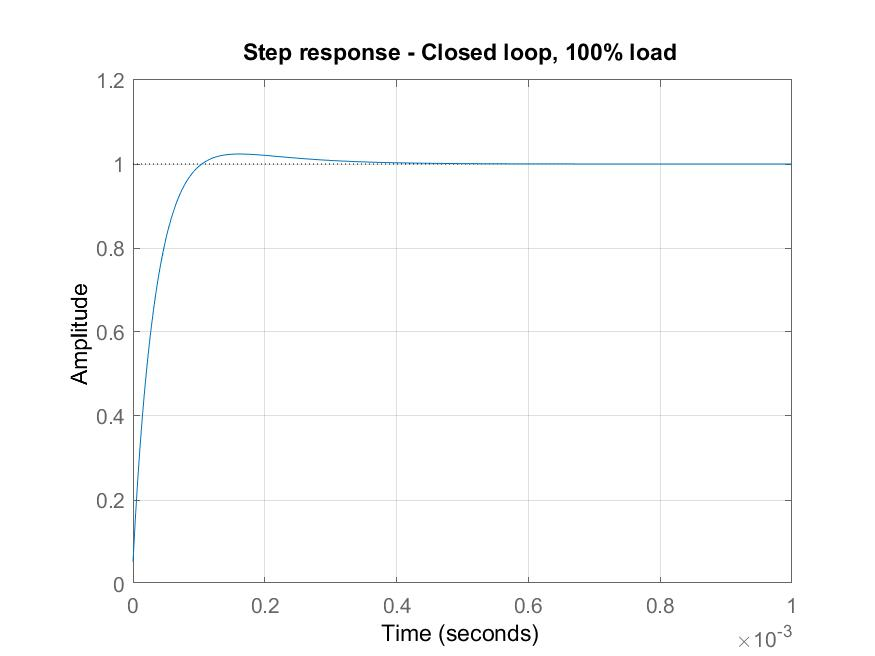
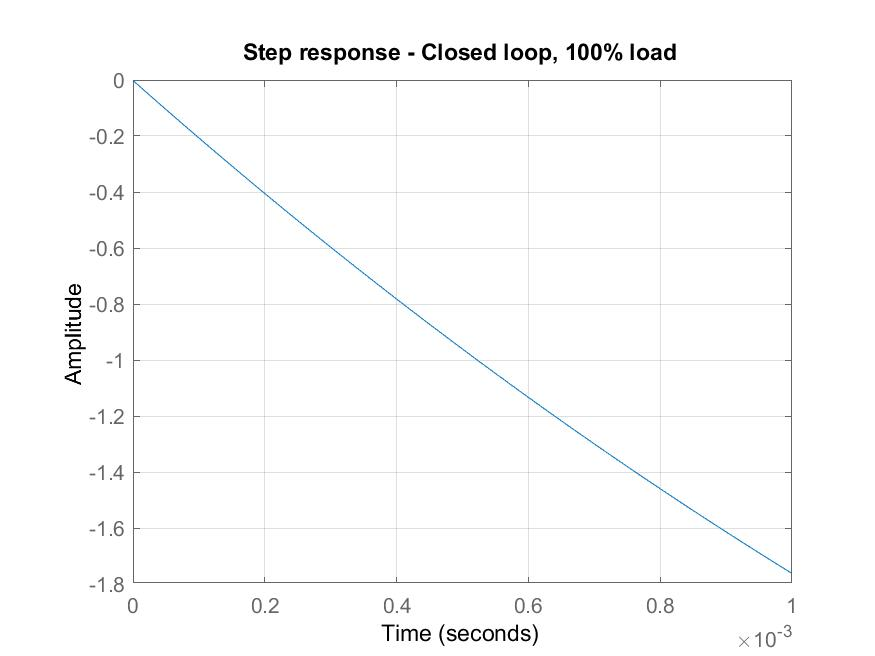
new fb model

diff --git a/8_2_Flyback_MATLAB/flyback_ss_simplify.m b/8_2_Flyback_MATLAB/flyback_ss_simplify.m
@@ -1,0 +1,209 @@
+clc; clf; clear all; close all; 
+
+syms L_eq1;
+syms r_eq1;
+syms r_m1;
+syms L_m1;
+syms L_1;
+syms L_eq2;
+syms r_eq2;
+syms C;
+syms r_c;
+syms R;
+syms k_N;
+
+syms big_d;
+syms small_d;
+
+syms V_in;
+
+StepSize = 0.5;
+
+%%
+
+ripple_ratio = 1/2; % delta i_L/I_L
+V_in = 400;
+V_out = 3.3;
+Delta = 0.5;
+P_in = 708; %637W / 0.9
+f_sw = 100e3;
+I_out = 34;
+ripple_vout = 50e-3;
+
+% Choose R to ensure it draws power as the entire device
+% R = V^2/P
+R_load_list = [97.1e-3 129.4e-3 194.1e-3 388.2e-3];
+
+% Select i for Load percentage to test
+load_percentage = ["100% load" "75% load" "50% load" "25% load"];
+i = 1;
+
+L_eq1 = 0;
+r_eq1 = 1e-3;
+r_m1  = 0;
+L_1   = (V_in * Delta)^2/(ripple_ratio*P_in*f_sw);
+L_m1  = L_1;
+L_eq2 = 0;
+r_eq2 = 1e-3;
+C     = (Delta * I_out)/(f_sw*ripple_vout);
+r_c   = 25e-3; % Testing
+R     = R_load_list(1,i);
+k_N   = V_out/V_in;
+big_d = Delta;
+
+
+%%  State Space
+
+% L_2 = k_N^2 * L_1;
+
+%Use Lm = L1 = L2 for now
+L_1 = L_m1;
+L_2 = L_1;
+
+% On state
+A_on = [-r_eq1/L_1, 0 %fixed
+        0, -1/(C*(R+r_c))]
+B_on = [1/L_1; 0]
+C_on = [0, R/(R+r_c)]
+
+% Off state: Non transformed (iL2, VL)
+A_off = [-1/L_2*(R*r_c)/(R+r_c), - 1/L_2*R/(R+r_c);
+        R/(C*(R+r_c)), -1/(C*(R+r_c))]
+B_off = [0;0]
+C_off = [R*r_c/(R+r_c), R/(R+r_c)]
+
+% Off state: Transformed (iL1, VL)
+Transform = [k_N 0; 0 1];
+A_off_T = Transform * A_off * inv(Transform)
+B_off_T = Transform * B_off
+C_off_T = C_off * inv(Transform)
+
+
+%% State Space Averaging
+
+% Operating point
+A = big_d*A_on + (1-big_d)*A_off_T;
+B = big_d*B_on + (1-big_d)*B_off_T;
+C = big_d*C_on + (1-big_d)*C_off_T;
+
+U = V_in;
+X = -inv(A)*B*U;
+Y = C*X;
+
+%Small-signal model
+E = (A_on-A_off_T)*X + (B_on-B_off_T)*U;
+F = (C_on-C_off_T)*X;
+
+fb_ss = ss(A, E, C, F);
+
+%% Transfer Function
+    [fb_tf_upper, fb_tf_lower] = ss2tf(A,E,C,F);
+    boost_tf = tf(fb_tf_upper, fb_tf_lower)
+
+    %% Unit Step Delta
+
+    % Find unit step-response
+    T = 0:0.001:StepSize;
+    [y,T,x] = step(fb_ss,T);
+
+    % Scale step-response and add to operating point
+    iL = 0.05*x(:,1)+X(1)*ones(length(T),1);
+    y = 0.05*y+Y*ones(length(T),1);
+
+    % Add time prior to step
+    T = [0; T+0.15];
+    iL = [X(1); iL];
+    y = [Y; y];
+
+
+    %% Open Loop Results
+
+    % Delta unit-step
+    figure(1);
+    subplot(3,1,1)
+    plot([0, 0.15, 0.1501, 0.2], [Delta, Delta, Delta+StepSize, Delta+StepSize])
+    ylim([Delta-0.05 Delta+0.05+StepSize]);
+    xlabel("Time [s]")
+    ylabel("Duty Cycle")
+    title("Delta Input")
+    xlim([0 0.2]);
+    grid on;
+
+    subplot(3,1,2)
+    plot(T,iL)
+    xlabel("Time [s]")
+    ylabel("Current [A]")
+    title("Current Output")
+    xlim([0 0.2]);
+    grid on;
+
+    subplot(3,1,3)
+    plot(T,y)
+    xlabel("Time [s]")
+    ylabel("Voltage [V]")
+    title("Voltage Output")
+    grid on;
+    xlim([0 0.2]);
+
+    %saveas(gcf,strcat('basic_fb_',load_percentage(i),'_ol_time.jpeg'))
+
+    %%
+
+    % Pre-step Bode Plot
+    figure(4);
+    bode(fb_ss);
+    title(strcat("Bode plot - Open loop, no controller, ", load_percentage(i)));
+    grid on;
+    %saveas(gcf,strcat('basic_fb_',load_percentage(i),'_ol_bode.jpeg'))
+
+    figure(5);
+    rlocus(fb_ss);
+    title(strcat("Root Locus - Closed loop, no controller, ", load_percentage(i)));
+    grid on;
+    %saveas(gcf,strcat('basic_fb_',load_percentage(i),'_ol_rlocus.jpeg'))
+
+    figure(6);
+    step(fb_ss, 1e-3)
+    title(strcat("Open loop step response - no controller, ", load_percentage(i)))
+    grid on;
+    %saveas(gcf,strcat('basic_fb_',load_percentage(i),'_ol_step.jpeg'))
+
+
+    %% PI Controller
+
+    % kP = -741; kI = -7.179e6; % Should be in the 10's micro range?
+    kP = 0.004; kI = 10;not
+    pi_gain = 1;
+
+    pi_controller = pid(kP, kI, 0);
+
+
+    %% CHOOSE CONTROLLER TYPE HERE
+
+    type = 'PI'; % Available options: LL, PI, Int
+    gain = pi_gain;
+    controller = pi_controller;
+
+    fb_OL = series(fb_ss, controller);
+    fb_CL = feedback(fb_OL*gain, 1);
+
+    %% Results: With Controller
+
+    figure(7);
+    rlocus(fb_OL);
+    title(strcat("Pre-Step Root Locus - Closed loop, ", load_percentage(i)))
+    grid on;
+    %saveas(gcf,strcat('basic_fb_',load_percentage(i),'_cl_rlocus.jpeg'))
+
+    figure(8);
+    bode(fb_CL);
+    title(strcat("Pre-Step Bode Diagram - Closed loop, ", load_percentage(i)))
+    grid on;
+    %saveas(gcf,strcat('basic_fb_',load_percentage(i),'_cl_bode.jpeg'))
+
+
+    figure(9);
+    step(fb_CL, 1e-3);
+    title(strcat("Step response - Closed loop, ", load_percentage(i)));
+    grid on;
+    %saveas(gcf,strcat('basic_fb_',load_percentage(i),'_cl_step.jpeg'))
